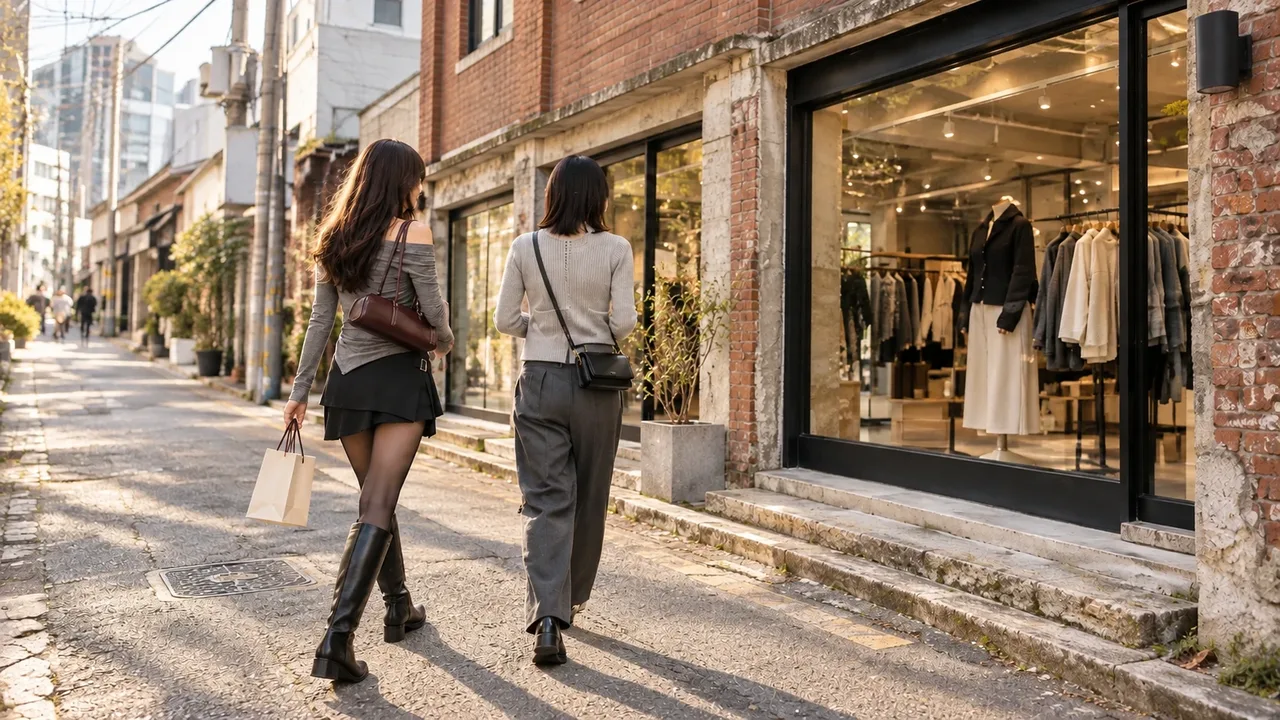
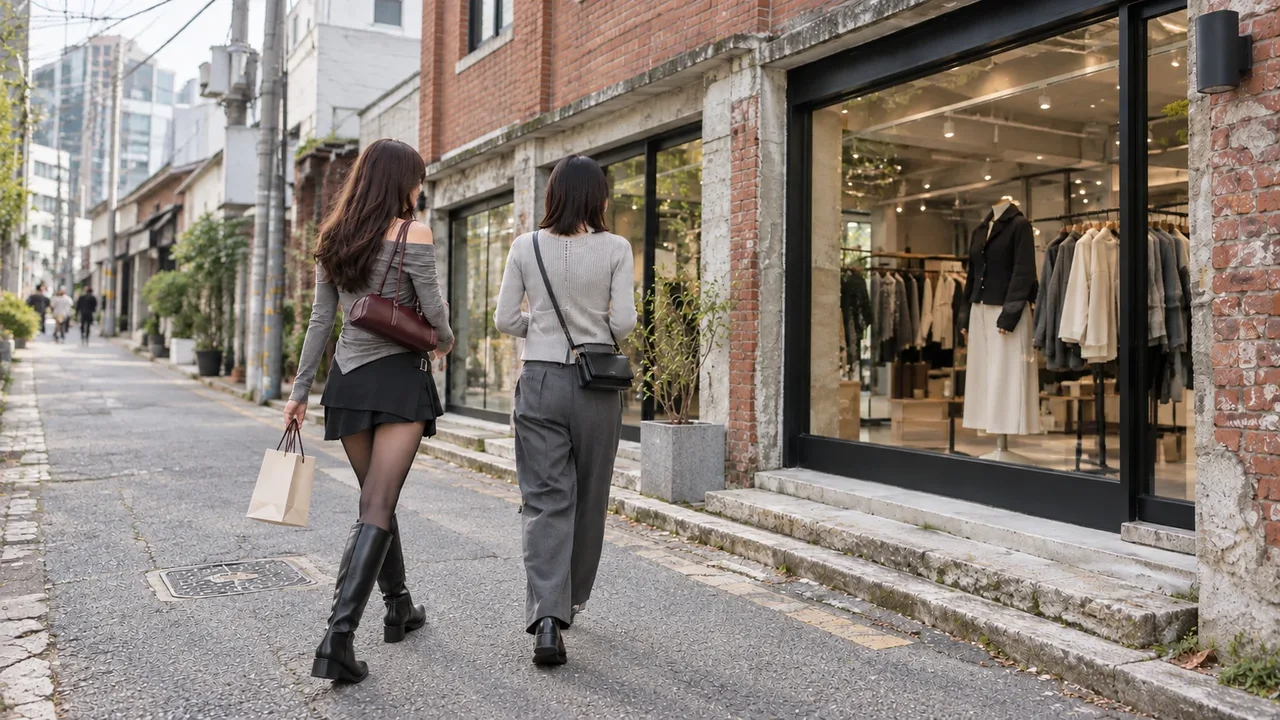
About 이미지 4장을 새 버전으로 교체

diff --git a/index.html b/index.html
@@ -111,25 +111,25 @@
 
         <ul class="values reveal">
           <li class="value">
-            <img class="value__image" src="src/assets/about-editor-curation.webp?v=6" alt="매장 옷걸이에서 집업 니트를 골라 보는 모습" data-i18n-alt="about-value-1-alt" width="960" height="540" loading="lazy" decoding="async">
+            <img class="value__image" src="src/assets/about-editor-curation.webp?v=7" alt="매장 옷걸이에서 집업 니트를 골라 보는 모습" data-i18n-alt="about-value-1-alt" width="960" height="540" loading="lazy" decoding="async">
             <span class="value__index">01</span>
             <h3 class="value__title" data-i18n="about-value-1-title">에디터 큐레이션</h3>
             <p class="value__desc" data-i18n="about-value-1-desc">에디터가 직접 엄선한 매장 추천</p>
           </li>
           <li class="value">
-            <img class="value__image" src="src/assets/about-local-discovery.webp?v=6" alt="서울 골목의 패션 매장 앞을 함께 걷는 모습" data-i18n-alt="about-value-2-alt" width="960" height="540" loading="lazy" decoding="async">
+            <img class="value__image" src="src/assets/about-local-discovery.webp?v=7" alt="서울 골목의 패션 매장 앞을 함께 걷는 모습" data-i18n-alt="about-value-2-alt" width="960" height="540" loading="lazy" decoding="async">
             <span class="value__index">02</span>
             <h3 class="value__title" data-i18n="about-value-2-title">로컬 발견</h3>
             <p class="value__desc" data-i18n="about-value-2-desc">서울 패션 피플들이 방문하는 지역 위주</p>
           </li>
           <li class="value">
-            <img class="value__image" src="src/assets/about-multilingual-experience.webp?v=6" alt="에디터와 함께 매장 직원에게 니트를 안내받는 모습" data-i18n-alt="about-value-3-alt" width="960" height="540" loading="lazy" decoding="async">
+            <img class="value__image" src="src/assets/about-multilingual-experience.webp?v=7" alt="에디터와 함께 매장 직원에게 니트를 안내받는 모습" data-i18n-alt="about-value-3-alt" width="960" height="540" loading="lazy" decoding="async">
             <span class="value__index">03</span>
             <h3 class="value__title" data-i18n="about-value-3-title">다국어 경험</h3>
             <p class="value__desc" data-i18n="about-value-3-desc">관광객 언어로 소통</p>
           </li>
           <li class="value">
-            <img class="value__image" src="src/assets/about-brand-partnerships.webp?v=6" alt="브랜드 작업실 테이블에서 재킷과 원단, 룩북을 함께 살펴보는 모습" data-i18n-alt="about-value-4-alt" width="960" height="540" loading="lazy" decoding="async">
+            <img class="value__image" src="src/assets/about-brand-partnerships.webp?v=7" alt="브랜드 작업실 테이블에서 재킷과 원단, 룩북을 함께 살펴보는 모습" data-i18n-alt="about-value-4-alt" width="960" height="540" loading="lazy" decoding="async">
             <span class="value__index">04</span>
             <h3 class="value__title" data-i18n="about-value-4-title">브랜드 파트너십</h3>
             <p class="value__desc" data-i18n="about-value-4-desc">한국에만 있는 브랜드와의 협업</p>
